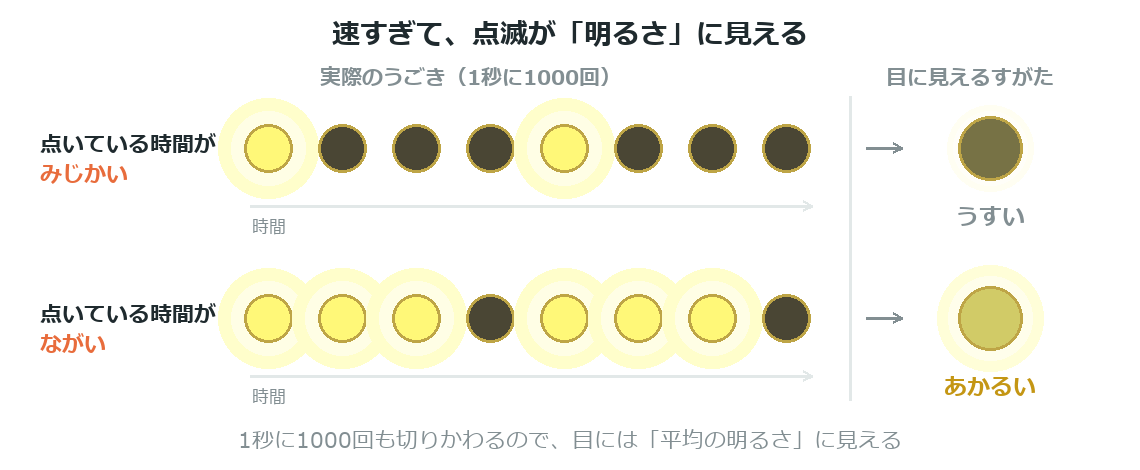
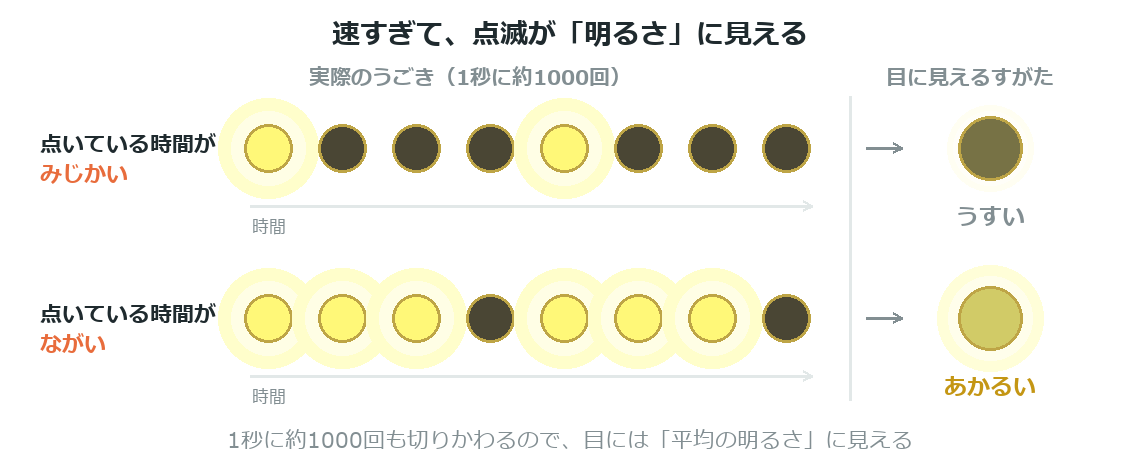
PWM周波数を「1秒に約1000回」に（言い切りを避ける）
「1秒に1000回」と断定していたが、実測していない値だった。

調べたこと:
- コアの既定値は 1000Hz（pins_arduino.h の PWM_FREQUENCY）
- pwm_start は HardwareTimer::setOverflow(freq, HERTZ_FORMAT) で周期を決めており、
  48MHz ÷ 分周1 ÷ 周期48000 でちょうど 1000Hz を作れる
- ただし**システムクロック自体が内蔵RC発振器**で、v07 の実測で約1.7%の誤差があった
  → 実際は 1000±20Hz 程度
- **PWM 周波数そのものは未実測**

対応:
- 本文と図を「1秒に**約**1000回」に変更（2箇所）
- 根拠と未実測であることを CURRICULUM.md §9 に記録

桁は確かなので教材の主張は変わらないが、測っていない値を言い切らない方針にそろえた。

Changed region(s): [[0.1842, 0.8936, 0.7982, 0.9532], [0.2763, 0.1191, 0.5526, 0.2085]]

diff --git a/docs/b3_pwm/index.html b/docs/b3_pwm/index.html
@@ -57,7 +57,7 @@ LEDを**とちゅうの明るさ**にしてみるよ。
 
 じつは、とちゅうの明るさは**うそ**なんだ。
 
-- **ものすごく速く点滅**している（1秒に1000回）
+- **ものすごく速く点滅**している（1秒に約1000回）
 - 点いている時間が長いほど**明るく見える**
 - このしくみを **PWM** という
 

diff --git a/CURRICULUM.md b/CURRICULUM.md
@@ -625,7 +625,10 @@ i3 Lチカ ─→ b1 外付けLED ─→ b3 PWM ────┐
 
 - **動作電圧**：**既定 5V**（3.3V にも選択可・出力ピンの電圧は選択と無関係）
   → **ADC 基準電圧も 5V**。電圧換算は `v * 5.0 / 1024`
-- **分解能**：`analogRead` = **10bit（0〜1023）** ／ `analogWrite` = **12bit（0〜4095）・PWM 1000Hz**
+- **分解能**：`analogRead` = **10bit（0〜1023）** ／ `analogWrite` = **12bit（0〜4095）**
+- **PWM 周波数**：既定 **1000Hz**（`pins_arduino.h` の `PWM_FREQUENCY`）。
+  48MHz ÷ 分周1 ÷ 周期48000 でちょうど 1000Hz を作れるが、**システムクロック自体に約1.7%の誤差**
+  があるため実際は 1000±20Hz 程度。**PWM 周波数そのものは未実測**なので、教材では「約1000回」と書く
 - **`LED_BUILTIN` は未定義** → 自分で `2` と書く
 - 教材で使うピン（確定）：**2**=内蔵LED ／ **5・6**=LED（PWM可）／ **7・8・9**=LED（点滅のみ）／
   **3**=スイッチ ／ **A2（=6）**=アナログ入力 ／ **A1（=0）・A3（=12）**=センサー増設用

diff --git a/content/b3_pwm/index.md b/content/b3_pwm/index.md
@@ -44,7 +44,7 @@ LEDを**とちゅうの明るさ**にしてみるよ。
 
 じつは、とちゅうの明るさは**うそ**なんだ。
 
-- **ものすごく速く点滅**している（1秒に1000回）
+- **ものすごく速く点滅**している（1秒に約1000回）
 - 点いている時間が長いほど**明るく見える**
 - このしくみを **PWM** という
 
